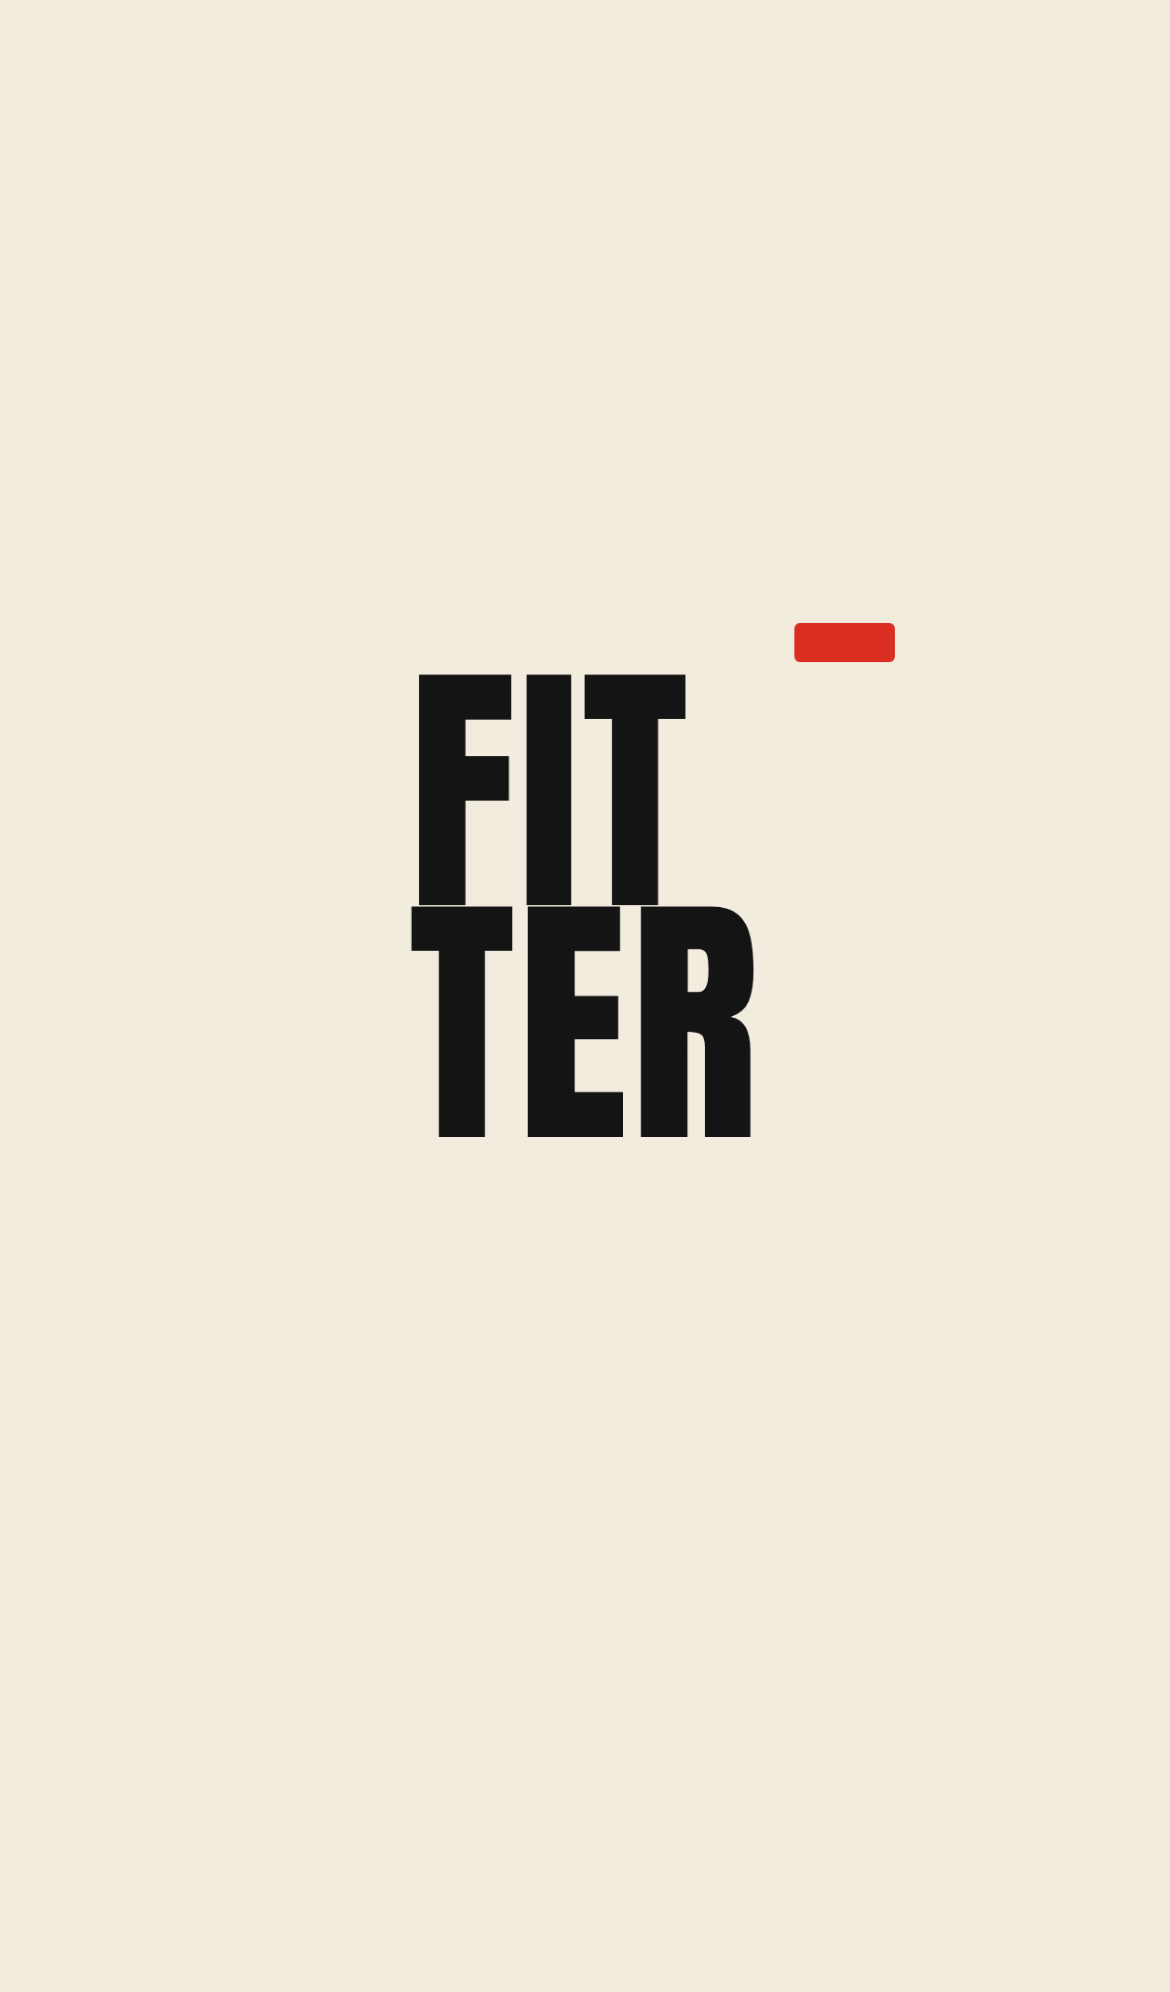
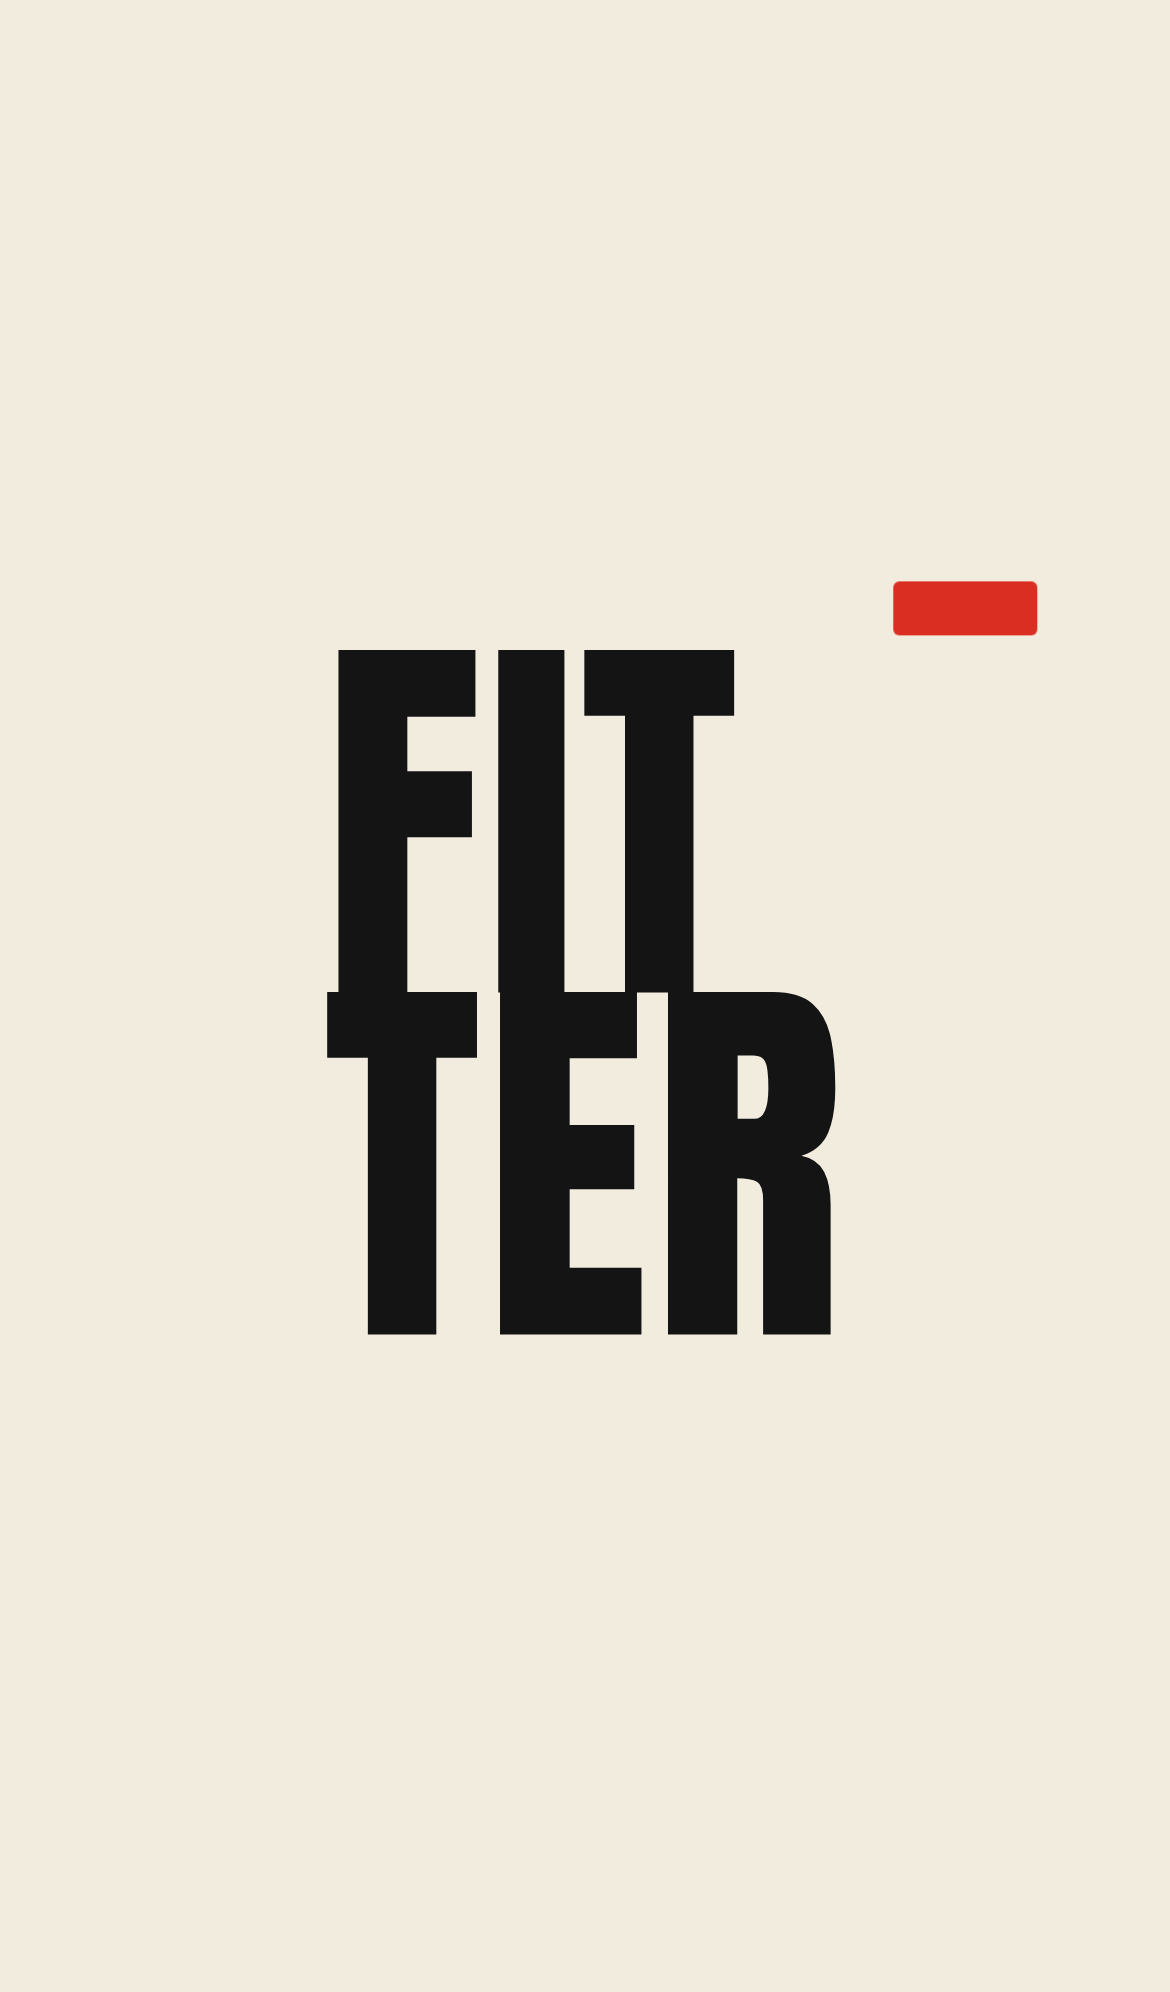
로그인 화면 A안: FITTER 마크를 크게 유지하고 남은 공간 정중앙에 배치
- 마크 크기를 화면에 맞춰 키움 (min(44vw, 20dvh, 180px)), 라벨도 비례
- 로그인 영역 높이를 측정해 위 빈 공간의 정가운데로만 이동 (기기별 위아래 여백 동일)

Claude-Session: https://claude.ai/code/session_01Qo6dAT2y3vhN6wj4omQPxB

Changed region(s): [[0.2769, 0.3112, 0.7385, 0.6847], [0.6769, 0.2801, 0.8923, 0.3424]]

diff --git a/src/components/Gate.tsx b/src/components/Gate.tsx
@@ -1,4 +1,4 @@
-import { useEffect, useRef, useState } from 'react';
+import { useEffect, useLayoutEffect, useRef, useState } from 'react';
 import { useAuth } from '../lib/auth';
 import { LoginButtons } from './LoginPanel';
 
@@ -30,6 +30,21 @@ export default function Gate({ onOpenChange }: { onOpenChange: (open: boolean) =
   const [instant, setInstant] = useState(() => seenThisSession()); // 애니메이션 없이 바로 배치
   const allowed = !enabled || !!session;
   const wasOpen = useRef(false);
+  const root = useRef<HTMLDivElement>(null);
+  const auth = useRef<HTMLElement>(null);
+
+  // 로그인 영역(버튼 묶음 + 아래 여백) 높이의 절반만큼 올리면 남은 공간의 정가운데
+  useLayoutEffect(() => {
+    const measure = () => {
+      const el = auth.current, box = root.current;
+      if (!el || !box) return;
+      const fromBottom = box.clientHeight - el.offsetTop;
+      box.style.setProperty('--lift', `${Math.round(fromBottom / 2)}px`);
+    };
+    measure();
+    window.addEventListener('resize', measure);
+    return () => window.removeEventListener('resize', measure);
+  });
 
   // 폰트 준비 후 인트로 시작 (글꼴이 바뀌며 깜빡이지 않게)
   useEffect(() => {
@@ -89,6 +104,7 @@ export default function Gate({ onOpenChange }: { onOpenChange: (open: boolean) =
 
   return (
     <div
+      ref={root}
       className={`gate fixed inset-0 z-[100] bg-[#F2ECDF] text-[#141414] ${phase === 'leaving' ? 'gate-leaving' : ''} ${phase === 'signin' ? 'gate-signin' : ''} ${instant ? 'gate-instant' : ''}`}
       onClick={() => phase === 'intro' && setIntroDone(true)}
     >
@@ -101,7 +117,7 @@ export default function Gate({ onOpenChange }: { onOpenChange: (open: boolean) =
         </div>
       </div>
 
-      <section className="gate-auth" aria-hidden={phase !== 'signin'} aria-label="로그인">
+      <section ref={auth} className="gate-auth" aria-hidden={phase !== 'signin'} aria-label="로그인">
         <div className="text-center mb-2">
           <h1 className="text-[22px] font-bold tracking-[-0.02em]">로그인</h1>
           <p className="mt-1.5 text-[15px] text-[#6B6358]">카카오 또는 구글 계정으로 시작하세요.</p>

diff --git a/src/index.css b/src/index.css
@@ -92,13 +92,13 @@ input[type='date']::-webkit-calendar-picker-indicator { opacity: .45; }
 .gate-leaving { opacity: 0; pointer-events: none; }
 .gate-mark {
   position: absolute; left: 50%; top: 50%;
-  font-family: Anton, sans-serif; font-size: 96px; line-height: 0.86; letter-spacing: 0.01em;
+  font-family: Anton, sans-serif; font-size: min(44vw, 20dvh, 180px); line-height: 0.86; letter-spacing: 0.01em;
   transform: translate(-50%, -50%);
   transition: transform 800ms cubic-bezier(0.22, 1, 0.36, 1);
 }
-.gate-tag { position: absolute; right: -3rem; top: -1.25rem; width: 2.25rem; height: 14px; border-radius: 2px; background: #DA2E22; transform-origin: left; }
-/* 로그인 단계: 같은 글자가 위로 올라가며 작아짐 */
-.gate-signin .gate-mark { transform: translate(-50%, calc(-50% - 24dvh)) scale(0.62); }
+.gate-tag { position: absolute; right: -0.48em; top: -0.18em; width: 0.36em; height: 0.135em; border-radius: 2px; background: #DA2E22; transform-origin: left; }
+/* 로그인 단계: 같은 크기 그대로, 로그인 영역 위 빈 공간의 정가운데로만 올라감 (--lift = 로그인 영역 높이의 절반, Gate에서 측정) */
+.gate-signin .gate-mark { transform: translate(-50%, calc(-50% - var(--lift, 165px))); }
 .gate-auth {
   position: absolute; left: 24px; right: 24px; max-width: 420px; margin: 0 auto;
   bottom: max(env(safe-area-inset-bottom), 32px);
